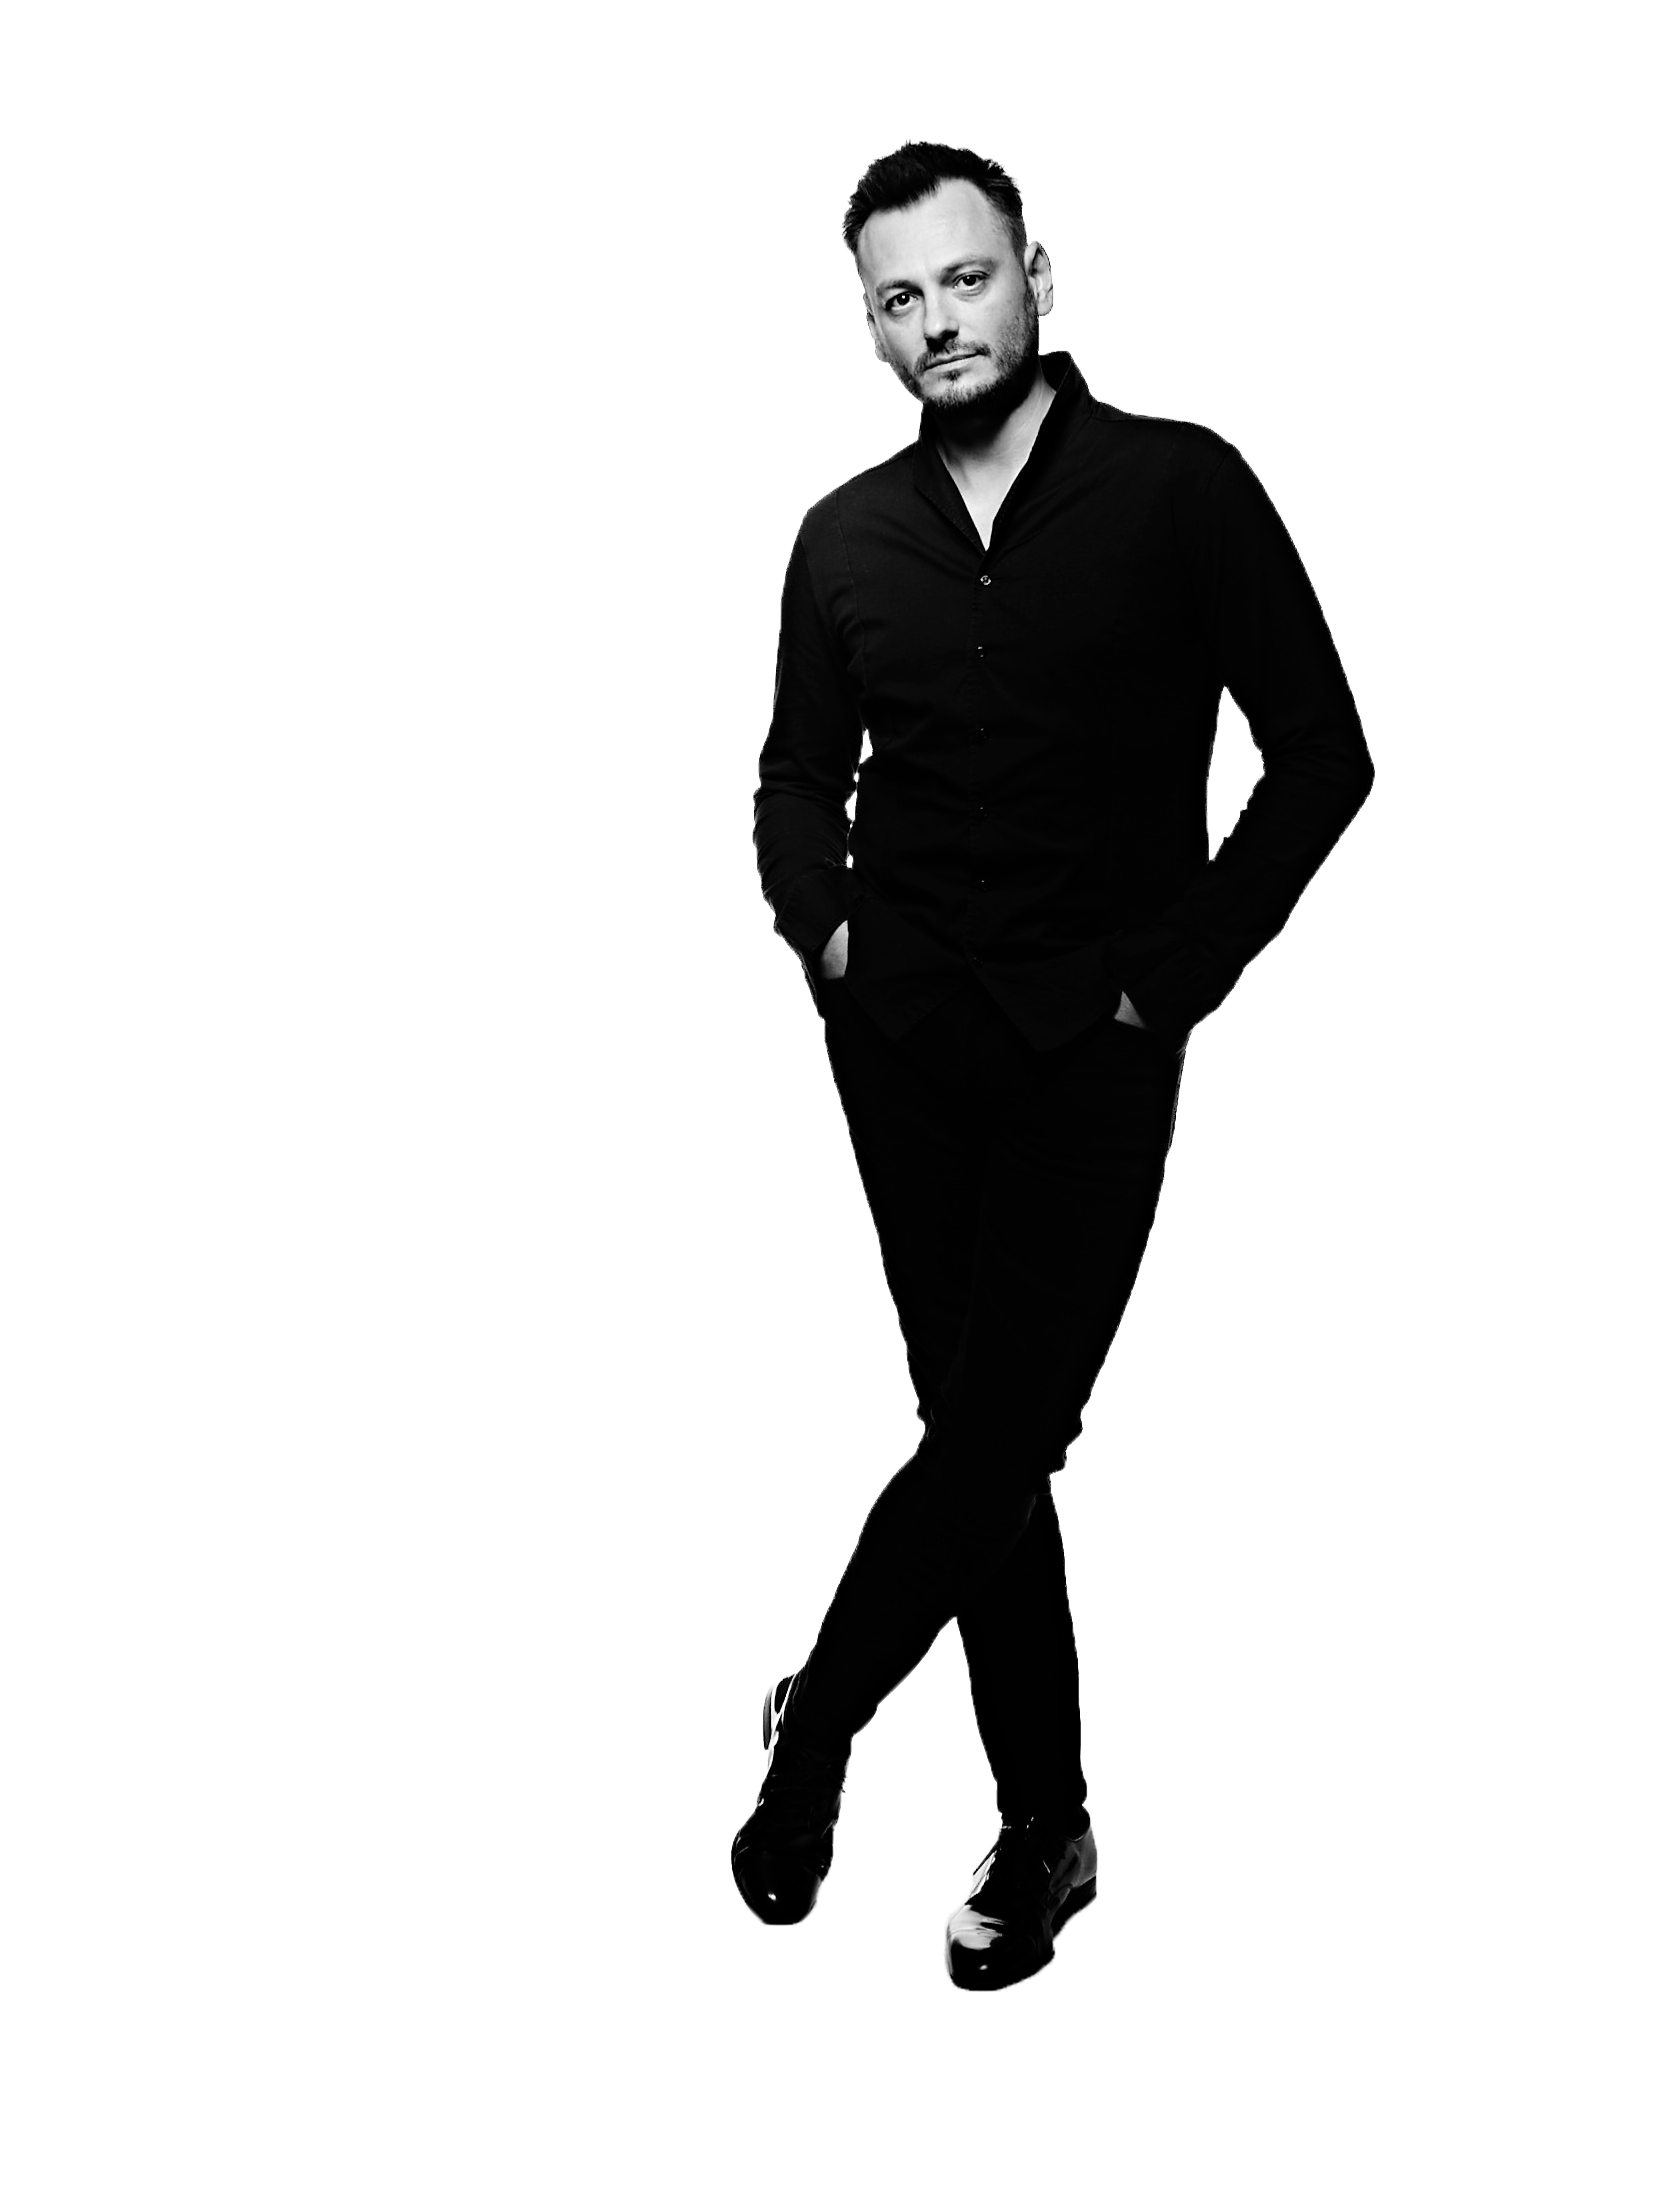
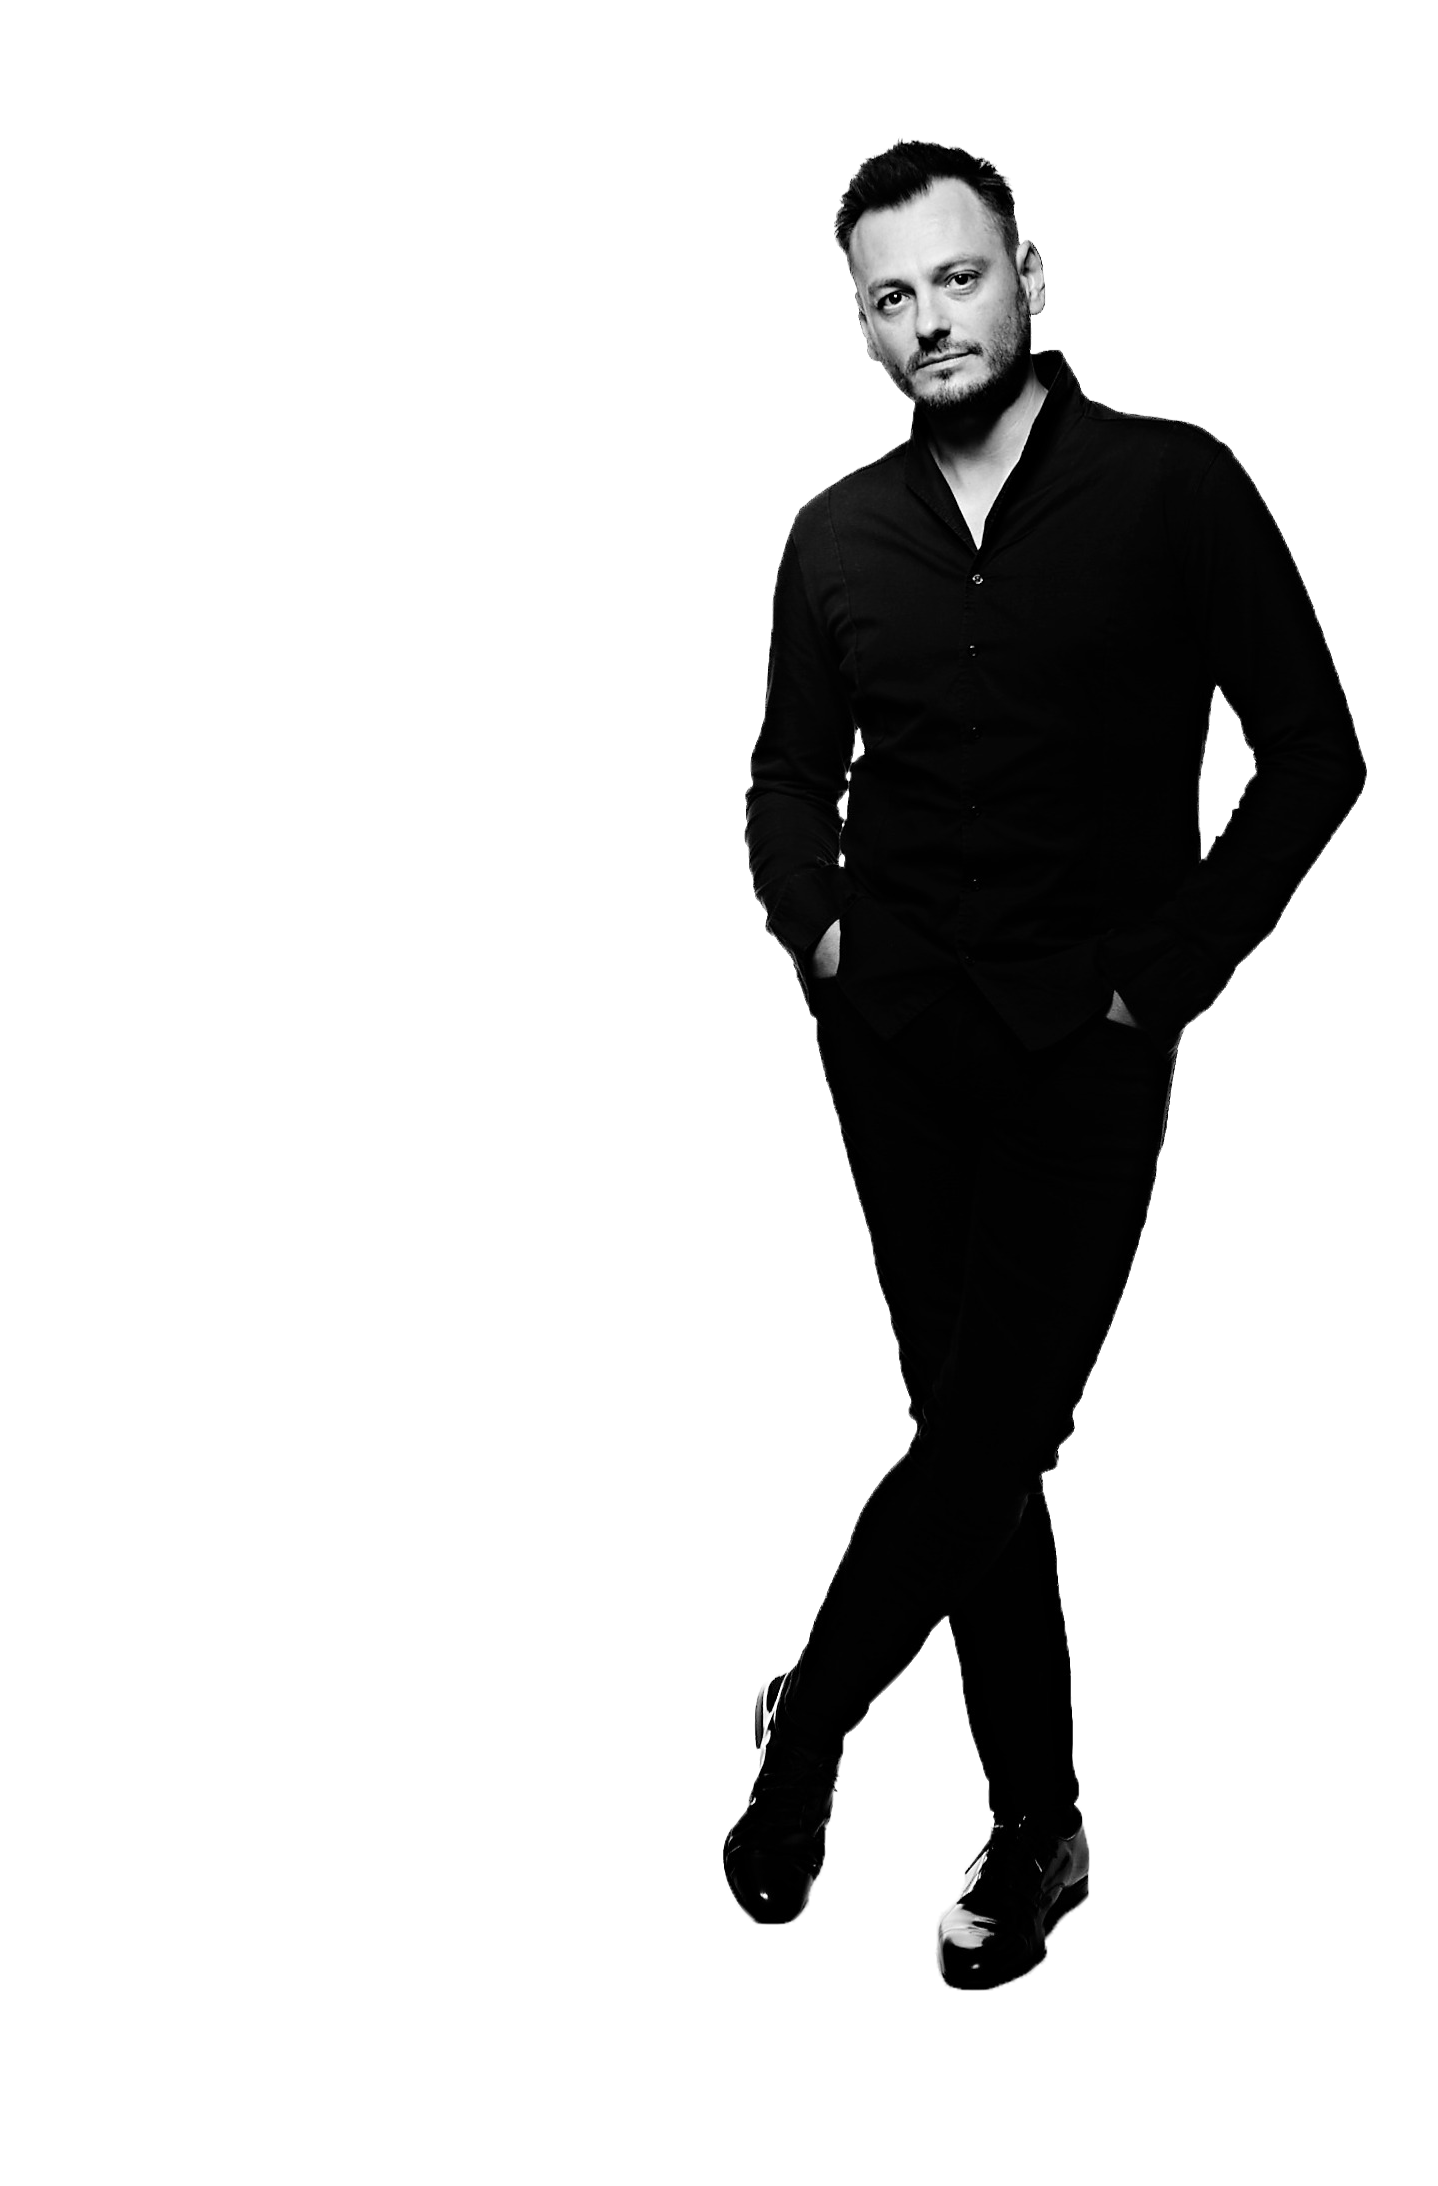
rearranging the home page

diff --git a/components/HomePage.tsx b/components/HomePage.tsx
@@ -31,7 +31,7 @@ export default function HomePage({}: Props) {
         id="home"
         >
             {/* <Image src='/homebg.png' alt="image" width={1000} height={1000} className='absolute right-0 object-fit w-full top-[5%]'/> */}
-            <Image src='/homemr.png' alt="image" width={1000} height={1000} className='absolute right-0 object-fit w-full top-[5%]'/>
+            <Image src='/homemr.png' alt="image" width={1000} height={1000} className='absolute -right-2 object-fit w-full -top-5'/>
         </motion.div>
     </div>
   )
